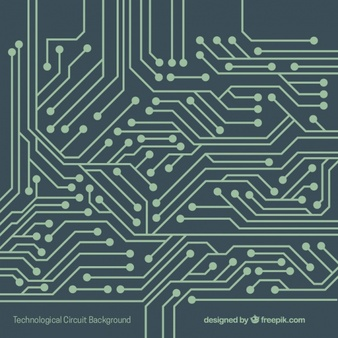
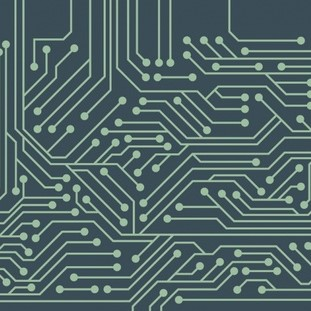
ugh

diff --git a/MemoryArt/wheniwas13.html b/MemoryArt/wheniwas13.html
@@ -9,7 +9,7 @@
   <link rel="stylesheet" type="text/css" href="main.css">
 </head>
 
-<body background="images/circut.jpg">
+<body background="images/background.jpg">
   <header>
       <h1>When I was 13 everything became social media.</h1>
       <p> This was when facebook was alive and well. I begged my mom for an account then.</p>

diff --git a/MemoryArt/wheniwas5.html b/MemoryArt/wheniwas5.html
@@ -9,7 +9,7 @@
   <link rel="stylesheet" type="text/css" href="main.css">
 </head>
 
-<body background="images/circut.jpg">
+<body background="images/background.jpg">
   <header>
       <h1>When I was 5, everything was a game.</h1>
         <p> When you're that young, everything is how much fun you can have in one day.</p>

diff --git a/MemoryArt/whatcomesnext.html b/MemoryArt/whatcomesnext.html
@@ -9,7 +9,7 @@
   <link rel="stylesheet" type="text/css" href="main.css">
 </head>
 
-<body background="images/circut.jpg">
+<body background="images/background.jpg">
   <header>
       <h1>What does the future hold?</h1>
       <h2>No one knows but I'll be there for all of it. Ready for consumption. </h2>

diff --git a/MemoryArt/index.html b/MemoryArt/index.html
@@ -9,7 +9,7 @@
   <link rel="stylesheet" type="text/css" href="main.css">
 </head>
 
-<body background="images/circut.jpg">
+<body background="images/background.jpg">
   <header>
       <h1>Things are different these days.</h1>
       <h2> The internet is different. </h2>
